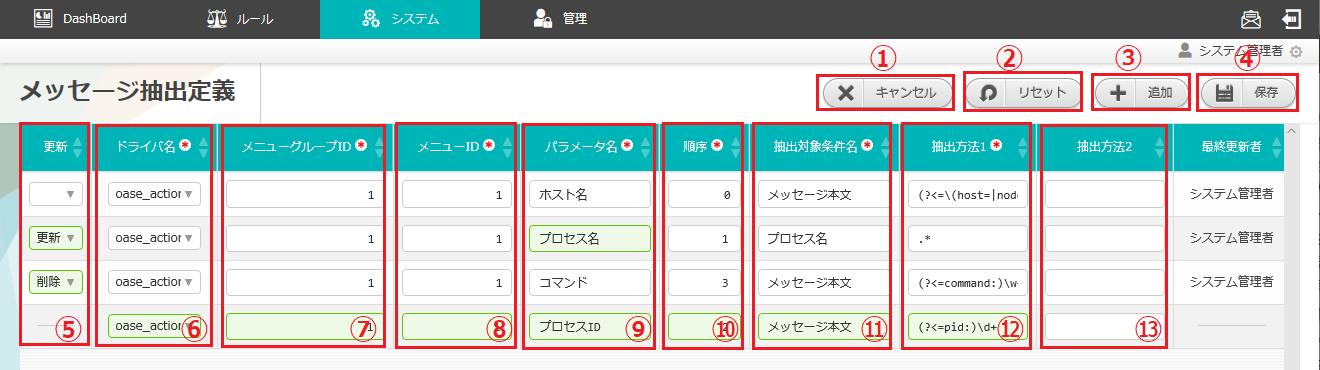
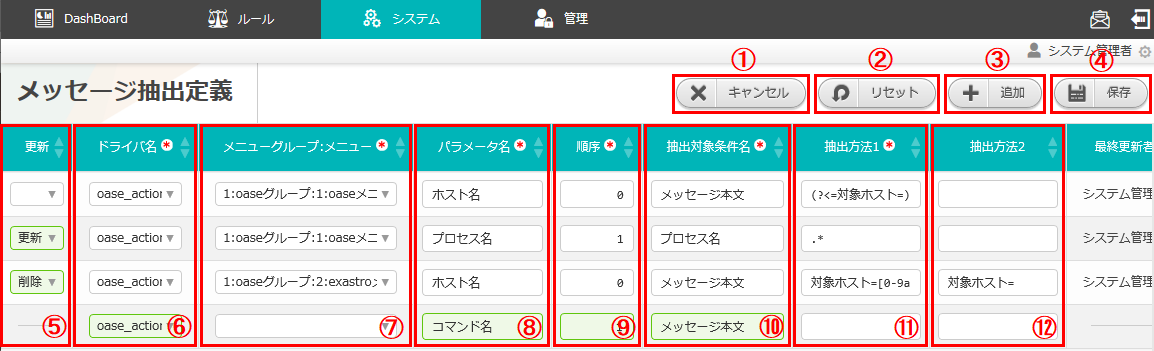
#OASE-191 マニュアル更新(ITAドライバー：メッセージ抽出定義の編集画面)

diff --git a/oase_documents/parameter_sheet/02_screen_structure.rst b/oase_documents/parameter_sheet/02_screen_structure.rst
@@ -148,16 +148,15 @@
    4, 保存,更新列の値が「更新」のみの場合、更新内容が反映されたメッセージ抽出定義画面に移ります。更新列の値に「削除」が含まれる場合、対象のメッセージ抽出定義が削除されたメッセージ抽出定義画面に移ります。
    5, 更新,既存のメッセージ抽出定義を更新する場合はプルダウンメニューから「更新」を選択してください。また、削除する場合は「削除」を選択してください。選択状態で「保存ボタン」を押下すると、選択した内容が反映されます。※新規追加行にはプルダウンメニューは表示されません。
    6, ドライバ名,入力必須項目です。
-   7, メニューグループID,入力必須項目です。
-   8, メニューID,入力必須項目です。
-   9, パラメータ名,入力必須項目です。256文字以内で入力してください。
-   10, 順序,入力必須項目です。※パラメータシートの登録には「ホスト名」が必要になります。「ホスト名」は「順序」に 0 を指定して、必ず設定を行ってください。
-   11, 抽出対象条件名,入力必須項目です。32文字以内で入力してください。
-   12, 抽出方法1,入力必須項目です。512文字以内で入力してください。
-   13, 抽出方法2,任意入力項目です。512文字以内で入力してください。
-   14, 最終更新者,メッセージ抽出定義編集画面の「保存ボタン」を押下したユーザ名が自動で反映されます。
-   15, 最終更新日時,メッセージ抽出定義編集画面の「保存ボタン」を押下した時刻が自動で反映されます。
-   16, 追加行削除ボタン,メッセージ抽出定義編集画面の「追加ボタン」を押下した場合、欄内に押下可能な「×」ボタンが表示されます。「×」ボタンを押下すると、追加行が削除されます。
+   7, メニューグループ:メニュー,入力必須項目です。
+   8, パラメータ名,入力必須項目です。256文字以内で入力してください。
+   9, 順序,入力必須項目です。※パラメータシートの登録には「ホスト名」が必要になります。「ホスト名」は「順序」に 0 を指定して、必ず設定を行ってください。
+   10, 抽出対象条件名,入力必須項目です。32文字以内で入力してください。
+   11, 抽出方法1,入力必須項目です。512文字以内で入力してください。
+   12, 抽出方法2,任意入力項目です。512文字以内で入力してください。
+   13, 最終更新者,メッセージ抽出定義編集画面の「保存ボタン」を押下したユーザ名が自動で反映されます。
+   14, 最終更新日時,メッセージ抽出定義編集画面の「保存ボタン」を押下した時刻が自動で反映されます。
+   15, 追加行削除ボタン,メッセージ抽出定義編集画面の「追加ボタン」を押下した場合、欄内に押下可能な「×」ボタンが表示されます。「×」ボタンを押下すると、追加行が削除されます。
 
 
 (3)抽出方法1、2の記述例と使用可能な正規表現
